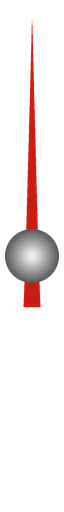
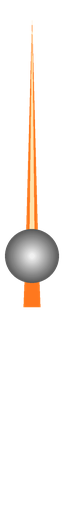
Unity HUD: blue flame dials; add the sport and pickup car entries and -car option
Claude-Session: https://claude.ai/code/session_01KGiRA1rg8KY8QPAVLBfUgz

Changed region(s): [[0.4062, 0.0312, 0.5938, 0.4688], [0.375, 0.5312, 0.625, 0.625]]

diff --git a/tools/make_gauges.py b/tools/make_gauges.py
@@ -1,5 +1,5 @@
 #!/usr/bin/env python3
-"""Draws the old-school analog HUD dials for the Unity game (light vintage needle gauges: ivory faces, chrome bezels, red needles): unity_assets/gen/gauge_speed.png (0..280 km/h),
+"""Draws the old-school analog HUD dials for the Unity game (blue flame needle gauges: dark faces with blue flames, chrome bezels, ice-blue numbers): unity_assets/gen/gauge_speed.png (0..280 km/h),
 gauge_tach.png (0..9 x1000 rpm), gauge_needle.png (points up), gauge_redarc.png (full red
 ring; the HUD shows only the part past the car's redline).
 Angles: value 0 sits at 225 degrees (lower left), full scale at -45 (lower right), clockwise."""
@@ -17,44 +17,56 @@ AMBER_HI = (255, 214, 110)
 def ang(f): return math.radians(225 - 270 * f)
 def pt(c, r, a): return (c + r * math.cos(a), c - r * math.sin(a))
 
+FLAME = os.path.join(ROOT, "unity_assets", "gen_src", "dial_flame.jpg")   # blue flames on black, square
+
 def face(size, majors, minor_per, label, numsize, unit, red_from=None):
-    """Light vintage dial: thin chrome bezel, ivory face that lets a little of the street through,
-    dark numerals and ticks, a fine double ring like a 60s/70s instrument."""
+    """Blue flame dial: slim chrome bezel, near-black face with blue flames rising from the bottom,
+    ice-blue numerals and ticks with a soft glow."""
     n = size * SS; c = n / 2; R = n / 2
     im = Image.new("RGBA", (n, n), (0, 0, 0, 0))
     d = ImageDraw.Draw(im)
-    d.ellipse([c - R * 0.985, c - R * 0.985, c + R * 0.985, c + R * 0.985], fill=(0, 0, 0, 110))
-    for i in range(50):          # slim polished chrome bezel
+    d.ellipse([c - R * 0.985, c - R * 0.985, c + R * 0.985, c + R * 0.985], fill=(0, 0, 0, 120))
+    for i in range(50):          # slim polished chrome bezel with a cold blue tint
         t = i / 49
         r = R * (0.965 - 0.045 * t)
-        g = int(120 + 125 * (0.5 + 0.5 * math.cos(t * math.pi * 2 + 0.4)))
-        d.ellipse([c - r, c - r, c + r, c + r], fill=(g, g, int(g * 0.97), 255))
+        g = int(110 + 130 * (0.5 + 0.5 * math.cos(t * math.pi * 2 + 0.4)))
+        d.ellipse([c - r, c - r, c + r, c + r], fill=(int(g * 0.9), int(g * 0.96), g, 255))
     r0 = R * 0.915
-    for i in range(50):          # ivory face, a touch darker at the rim, slightly see-through
-        t = i / 49
-        r = r0 * (1 - 0.75 * t)
-        d.ellipse([c - r, c - r, c + r, c + r], fill=(int(214 + 30 * t), int(206 + 30 * t), int(184 + 34 * t), 224))
-    INK = (38, 34, 30)
+    # the face: flames picture inside the circle, darkened towards the top so the numbers read
+    fl = Image.open(FLAME).convert("RGB").resize((int(2 * r0), int(2 * r0)), Image.LANCZOS)
+    base = Image.new("RGB", fl.size, (4, 8, 20))
+    fl = Image.blend(base, fl, 0.85)
+    mask = Image.new("L", fl.size, 0)
+    ImageDraw.Draw(mask).ellipse([0, 0, fl.size[0] - 1, fl.size[1] - 1], fill=238)
+    im.paste(fl, (int(c - r0), int(c - r0)), mask)
+    d = ImageDraw.Draw(im)
+    ICE = (190, 235, 255); BLUE = (40, 150, 255)
+    glow = Image.new("RGBA", (n, n), (0, 0, 0, 0)); gd = ImageDraw.Draw(glow)
+    ink = Image.new("RGBA", (n, n), (0, 0, 0, 0)); kd = ImageDraw.Draw(ink)
     r1 = R * 0.875
-    d.ellipse([c - r1, c - r1, c + r1, c + r1], outline=INK + (255,), width=max(1, int(n * 0.004)))
-    r2 = R * 0.48
-    d.ellipse([c - r2, c - r2, c + r2, c + r2], outline=INK + (90,), width=max(1, int(n * 0.003)))
+    for dd, col in ((gd, BLUE), (kd, ICE)):
+        dd.ellipse([c - r1, c - r1, c + r1, c + r1], outline=col + (255,), width=max(1, int(n * 0.005)))
     steps = (len(majors) - 1) * minor_per
+    font = ImageFont.truetype(FONT, int(n * numsize))
     for i in range(steps + 1):
         f = i / steps; a = ang(f); major = i % minor_per == 0
-        val = majors[0] + (majors[-1] - majors[0]) * f
-        col = (190, 30, 22) if red_from is not None and val >= red_from - 1e-6 else INK
-        d.line([pt(c, R * 0.86, a), pt(c, R * (0.765 if major else 0.81), a)], fill=col + (255,), width=int(n * (0.011 if major else 0.005)))
-    font = ImageFont.truetype(FONT2, int(n * numsize))
+        for dd, col in ((gd, BLUE), (kd, ICE if major else (120, 200, 255))):
+            dd.line([pt(c, R * 0.86, a), pt(c, R * (0.765 if major else 0.81), a)], fill=col + (255,), width=int(n * (0.012 if major else 0.005)))
     for k, m in enumerate(majors):
         f = k / (len(majors) - 1); a = ang(f)
-        x, y = pt(c, R * 0.655, a)
-        d.text((x, y), str(m), font=font, fill=INK + (255,), anchor="mm")
-    d.text((c, c - R * 0.27), unit, font=ImageFont.truetype(FONT2, int(n * 0.058)), fill=(150, 40, 25, 255), anchor="mm")
-    # glass shine across the top
+        x, y = pt(c, R * 0.645, a)
+        # dark backing so numbers stay readable over bright flames
+        d.text((x, y), str(m), font=font, fill=(0, 6, 20, 255), anchor="mm", stroke_width=int(n * 0.008), stroke_fill=(0, 6, 20, 255))
+        gd.text((x, y), str(m), font=font, fill=BLUE + (255,), anchor="mm")
+        kd.text((x, y), str(m), font=font, fill=(255, 255, 255, 255), anchor="mm")
+    uf = ImageFont.truetype(FONT, int(n * 0.05))
+    kd.text((c, c - R * 0.27), unit, font=uf, fill=(120, 200, 255, 255), anchor="mm")
+    im = Image.alpha_composite(im, glow.filter(ImageFilter.GaussianBlur(n * 0.012)))
+    im = Image.alpha_composite(im, glow.filter(ImageFilter.GaussianBlur(n * 0.004)))
+    im = Image.alpha_composite(im, ink)
     shine = Image.new("RGBA", (n, n), (0, 0, 0, 0))
     sd = ImageDraw.Draw(shine)
-    sd.pieslice([c - r0, c - r0, c + r0, c + r0], 200, 340, fill=(255, 255, 255, 46))
+    sd.pieslice([c - r0, c - r0, c + r0, c + r0], 200, 340, fill=(200, 230, 255, 30))
     sd.ellipse([c - r0 * 1.3, c - r0 * 0.55, c + r0 * 1.3, c + r0 * 2.2], fill=(0, 0, 0, 0))
     im = Image.alpha_composite(im, shine.filter(ImageFilter.GaussianBlur(n * 0.004)))
     return im.resize((size, size), Image.LANCZOS)
@@ -63,7 +75,8 @@ def needle(w, h):
     n = SS; im = Image.new("RGBA", (w * n, h * n), (0, 0, 0, 0)); d = ImageDraw.Draw(im)
     cx = w * n / 2; H = h * n; W = w * n
     # pivot at the image centre; a slim red pointer goes up, a short counterweight goes down
-    d.polygon([(cx, H * 0.04), (cx + W * 0.10, H * 0.5), (cx + W * 0.13, H * 0.60), (cx - W * 0.13, H * 0.60), (cx - W * 0.10, H * 0.5)], fill=(200, 28, 20, 255))
+    d.polygon([(cx, H * 0.04), (cx + W * 0.10, H * 0.5), (cx + W * 0.13, H * 0.60), (cx - W * 0.13, H * 0.60), (cx - W * 0.10, H * 0.5)], fill=(255, 120, 30, 255))
+    d.polygon([(cx, H * 0.04), (cx + W * 0.04, H * 0.5), (cx - W * 0.04, H * 0.5)], fill=(255, 225, 170, 255))
     r = W * 0.42
     for i in range(20):
         t = i / 19; rr = r * (1 - 0.9 * t); g = int(90 + 150 * t)
@@ -73,13 +86,13 @@ def needle(w, h):
 def redarc(size):
     n = size * SS; c = n / 2; R = n / 2
     im = Image.new("RGBA", (n, n), (0, 0, 0, 0)); d = ImageDraw.Draw(im)
-    d.ellipse([c - R * 0.86, c - R * 0.86, c + R * 0.86, c + R * 0.86], outline=(200, 28, 20, 255), width=int(n * 0.028))
+    d.ellipse([c - R * 0.86, c - R * 0.86, c + R * 0.86, c + R * 0.86], outline=(255, 50, 30, 255), width=int(n * 0.03))
     return im.resize((size, size), Image.LANCZOS)
 
 if __name__ == "__main__":
     os.makedirs(OUT, exist_ok=True)
-    face(640, list(range(0, 281, 20)), 2, "", 0.07, "KM/H").save(os.path.join(OUT, "gauge_speed.png"))
-    face(420, list(range(0, 10)), 5, "", 0.105, "RPM x1000").save(os.path.join(OUT, "gauge_tach.png"))
+    face(640, list(range(0, 281, 20)), 2, "", 0.058, "KM/H").save(os.path.join(OUT, "gauge_speed.png"))
+    face(420, list(range(0, 10)), 5, "", 0.09, "RPM x1000").save(os.path.join(OUT, "gauge_tach.png"))
     needle(64, 512).save(os.path.join(OUT, "gauge_needle.png"))
     redarc(420).save(os.path.join(OUT, "gauge_redarc.png"))
     print("gauges written to", OUT)

diff --git a/unity/Assets/Game/Runtime/UI/Hud.cs b/unity/Assets/Game/Runtime/UI/Hud.cs
@@ -49,7 +49,7 @@ namespace HMD
             map = gameObject.AddComponent<Minimap>();
             map.Build(root, player);
 
-            // light vintage analog dials bottom-right (above the pedals): ivory speedometer with a needle,
+            // blue flame analog dials bottom-right (above the pedals): speedometer with a needle,
             // a smaller rev counter up-left of it, the gear in a round badge and a small digital speed
             var sp = UIKit.Rect("Speedo", root, new Vector2(1, 0), new Vector2(1, 0), new Vector2(-35, 350), new Vector2(320, 320));
             var mid = new Vector2(0.5f, 0.5f);
@@ -66,13 +66,13 @@ namespace HMD
             var needleSprite = GaugeSprite("gauge_needle");
             revNeedle = UIKit.Img("RevNeedle", tach, mid, mid, Vector2.zero, new Vector2(20, 157), Color.white, needleSprite).rectTransform;
             speedNeedle = UIKit.Img("SpeedNeedle", sp, mid, mid, Vector2.zero, new Vector2(32, 256), Color.white, needleSprite).rectTransform;
-            Color ivory = new Color(0.93f, 0.9f, 0.82f), ink = new Color(0.15f, 0.13f, 0.12f), chrome = new Color(0.82f, 0.82f, 0.82f);
-            var box = UIKit.Img("SpeedBox", sp, mid, mid, new Vector2(0, -91), new Vector2(104, 42), new Color(0.09f, 0.08f, 0.08f, 0.92f), UIKit.RoundedSprite);
+            Color night = new Color(0.02f, 0.04f, 0.11f), ice = new Color(0.78f, 0.93f, 1f), flameBlue = new Color(0.24f, 0.63f, 1f);
+            var box = UIKit.Img("SpeedBox", sp, mid, mid, new Vector2(0, -91), new Vector2(104, 42), new Color(0.01f, 0.03f, 0.09f, 0.92f), UIKit.RoundedSprite);
             box.type = Image.Type.Sliced;
-            speed = UIKit.Label("Speed", box.transform, mid, mid, Vector2.zero, new Vector2(104, 42), "0", 36, new Color(1f, 0.93f, 0.78f), TextAnchor.MiddleCenter, Res.TitleFont);
-            var gb = UIKit.Img("GearBadge", sp, mid, mid, new Vector2(-141, -56), new Vector2(72, 72), chrome, UIKit.CircleSprite);
-            UIKit.Img("GearInner", gb.transform, mid, mid, Vector2.zero, new Vector2(64, 64), ivory, UIKit.CircleSprite);
-            gear = UIKit.Label("Gear", gb.transform, mid, mid, Vector2.zero, new Vector2(72, 72), "1", 46, ink, TextAnchor.MiddleCenter, Res.TitleFont);
+            speed = UIKit.Label("Speed", box.transform, mid, mid, Vector2.zero, new Vector2(104, 42), "0", 36, ice, TextAnchor.MiddleCenter, Res.TitleFont);
+            var gb = UIKit.Img("GearBadge", sp, mid, mid, new Vector2(-141, -56), new Vector2(72, 72), flameBlue, UIKit.CircleSprite);
+            UIKit.Img("GearInner", gb.transform, mid, mid, Vector2.zero, new Vector2(64, 64), night, UIKit.CircleSprite);
+            gear = UIKit.Label("Gear", gb.transform, mid, mid, Vector2.zero, new Vector2(72, 72), "1", 46, ice, TextAnchor.MiddleCenter, Res.TitleFont);
             gear.GetComponent<Shadow>().enabled = false;
             // nitro bar under the speedo
             var nb = UIKit.Img("NitroBg", root, new Vector2(1, 0), new Vector2(1, 0), new Vector2(-60, 330), new Vector2(290, 16), new Color(0, 0, 0, 0.5f), UIKit.RoundedSprite);

diff --git a/unity/Assets/Game/Runtime/Vehicle/CarDB.cs b/unity/Assets/Game/Runtime/Vehicle/CarDB.cs
@@ -24,7 +24,7 @@ namespace HMD
     /// <summary>The same 8 original cars as the Godot game (names and specs carried over).</summary>
     public static class CarDB
     {
-        public static readonly string[] Order = { "tuner", "classic", "muscle", "sedan", "rotary", "euro", "suv", "exotic" };
+        public static readonly string[] Order = { "sport", "pickup", "tuner", "classic", "muscle", "sedan", "rotary", "euro", "suv", "exotic" };
         static Dictionary<string, CarSpec> cars;
 
         public static CarSpec Get(string id)
@@ -44,6 +44,9 @@ namespace HMD
         static void Build()
         {
             cars = new Dictionary<string, CarSpec>();
+            // the two main cars (made-up names, no badges): an American V8 sports coupe and a full-size pickup
+            Add(new CarSpec { id = "sport", name = "VORTEX Z6", tag = "AMERICAN V8 SPORTS CAR", price = 0, hp = 400, torqueNm = 542, topKmh = 300, weightKg = 1440, handling = 84, drive = Drive.RWD, engine = "v8", cyl = "6.0L V8", length = 4.44f, rpmRedline = 6500, gears = new[] { 2.66f, 1.78f, 1.3f, 1.0f, 0.74f, 0.5f }, finalDrive = 3.42f, paint = new Color(0.78f, 0.03f, 0.03f) });
+            Add(new CarSpec { id = "pickup", name = "DUNE 1500", tag = "FULL-SIZE V8 PICKUP", price = 0, hp = 315, torqueNm = 458, topKmh = 180, weightKg = 2380, handling = 48, drive = Drive.AWD, engine = "v8", cyl = "5.3L V8", length = 5.84f, rpmRedline = 5800, wheelRadius = 0.40f, finalDrive = 3.42f, paint = new Color(0.03f, 0.03f, 0.035f) });
             Add(new CarSpec { id = "tuner", name = "KAIDO RS-7", tag = "JAPANESE TUNER COUPE", price = 0, hp = 276, torqueNm = 353, topKmh = 245, weightKg = 1280, handling = 78, drive = Drive.RWD, engine = "i4", cyl = "2.0L TURBO I4", length = 4.45f, rpmRedline = 8000, paint = new Color(0.62f, 0.85f, 0.22f) });
             Add(new CarSpec { id = "muscle", name = "BRAWLER 427", tag = "AMERICAN MUSCLE", price = 18500, hp = 390, torqueNm = 624, topKmh = 254, weightKg = 1620, handling = 58, drive = Drive.RWD, engine = "v8", cyl = "7.0L V8", length = 4.75f, rpmRedline = 6500, gears = new[] { 2.9f, 1.9f, 1.35f, 1.0f, 0.8f }, finalDrive = 3.5f, paint = new Color(0.02f, 0.02f, 0.025f) });
             Add(new CarSpec { id = "euro", name = "VERANO GT", tag = "EUROPEAN PERFORMANCE", price = 32000, hp = 340, torqueNm = 420, topKmh = 275, weightKg = 1390, handling = 88, drive = Drive.RWD, engine = "i6", cyl = "3.6L FLAT 6", length = 4.5f, rpmRedline = 7800, paint = new Color(0.45f, 0.95f, 0.1f) });

diff --git a/unity/Assets/Game/Runtime/Core/Game.cs b/unity/Assets/Game/Runtime/Core/Game.cs
@@ -33,8 +33,11 @@ namespace HMD
         void Awake()
         {
             I = this;
-            carId = PlayerPrefs.GetString("car", "tuner");
-            if (System.Array.IndexOf(CarDB.Order, carId) < 0) carId = "tuner";
+            carId = PlayerPrefs.GetString("car", "sport");
+            // -car <id> on the command line picks the car for this run (used for screenshots)
+            var argv = System.Environment.GetCommandLineArgs();
+            for (int a = 0; a + 1 < argv.Length; a++) if (argv[a] == "-car") carId = argv[a + 1];
+            if (System.Array.IndexOf(CarDB.Order, carId) < 0) carId = "sport";
         }
 
         IEnumerator Start()

diff --git a/unity/Assets/Game/Runtime/World/Traffic.cs b/unity/Assets/Game/Runtime/World/Traffic.cs
@@ -28,7 +28,7 @@ namespace HMD
         readonly List<TCar> cars = new List<TCar>();
         Transform player;
         System.Random rng = new System.Random(3);
-        static readonly string[] Models = { "sedan", "suv", "euro", "tuner", "muscle", "classic", "rotary" };
+        static readonly string[] Models = { "sedan", "suv", "euro", "tuner", "muscle", "classic", "rotary", "pickup", "sport" };
 
         public void Setup(Transform playerT)
         {
